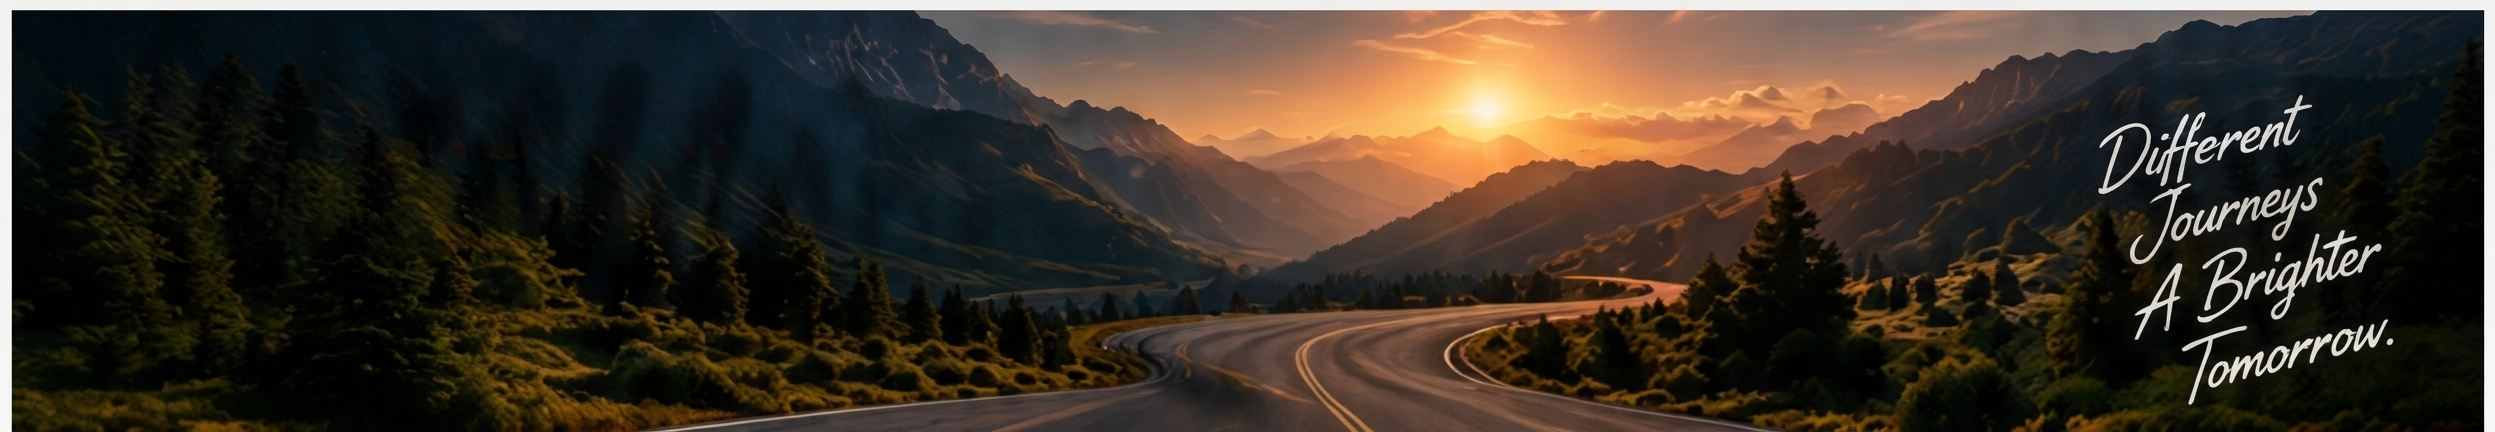
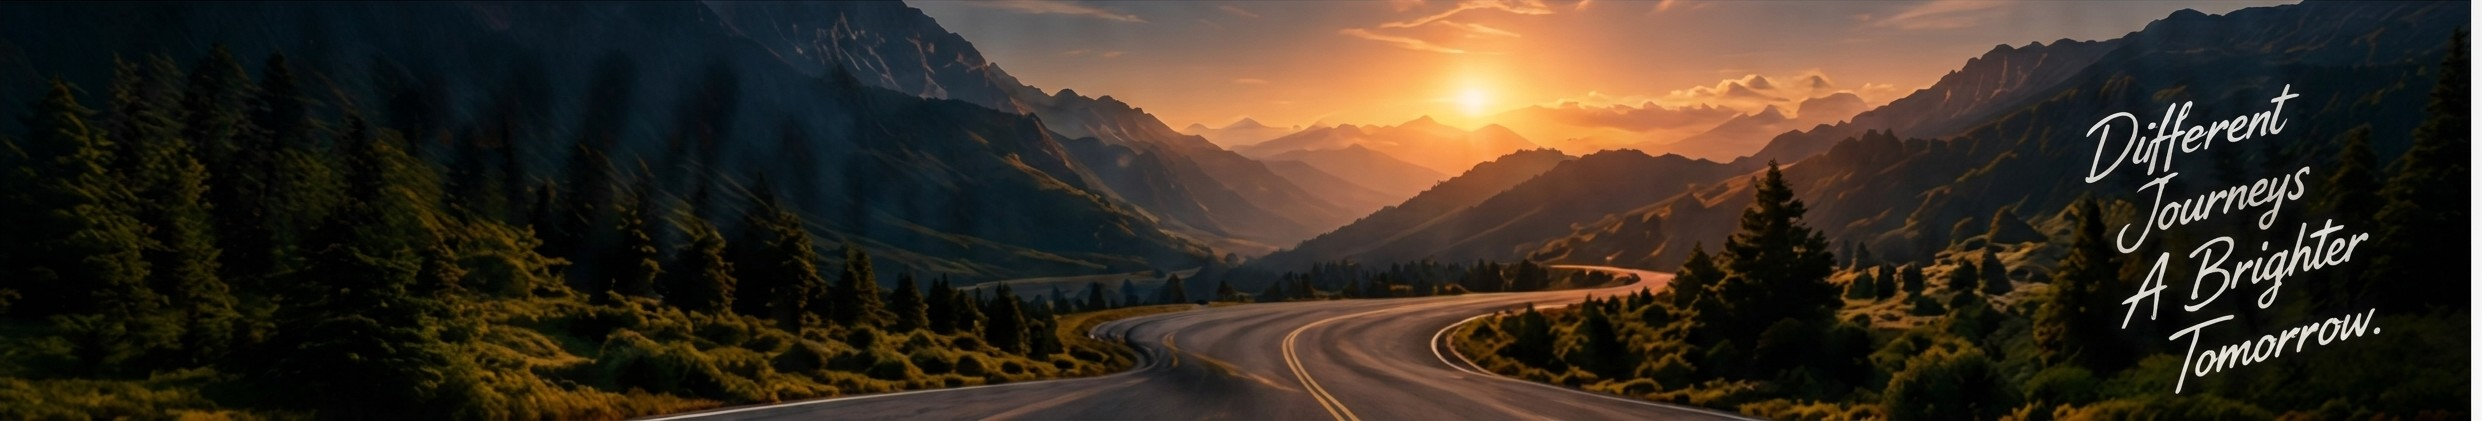
footer is done

diff --git a/src/components/Footer.jsx b/src/components/Footer.jsx
@@ -1,4 +1,3 @@
-
 import React from 'react'
 import {
     FaLinkedinIn,
@@ -33,19 +32,18 @@ const supportLinks = [
 
 const Footer = () => {
     return (
-        <footer className="bg-[#0B0F12] py-12">
-            <div className="mx-auto w-[90%]">
-
-                <div className="grid grid-cols-1 gap-8 pb-10 text-center md:grid-cols-2 md:justify-items-center lg:grid-cols-5 lg:justify-items-start lg:text-left">
-
+        <footer className="bg-[#0B0F12]  py-12 ">
+            <div className='w-[90%] mx-auto text-center md:text-left'>
+                <div className=" grid grid-cols-1 gap-8 pb-10 md:grid-cols-2 lg:grid-cols-5 ">
 
                     <div>
-                        <div className="flex items-center justify-center lg:justify-start">
-                            <img
-                                src="/assets/rypp-logo2.png"
-                                alt="RYPP"
-                                className="h-10 w-auto object-contain"
-                            />
+                        <div className="flex items-center gap-2">
+                            <span className="text-xl font-extrabold text-[#FD1022]">
+                                RYPP
+                            </span>
+                            <span className="text-xs text-gray-400">
+                                Ride Your Way
+                            </span>
                         </div>
 
                         <p className="mt-4 text-xs font-medium text-gray-400">
@@ -56,7 +54,7 @@ const Footer = () => {
                             Bike • Car • Rentals
                         </p>
 
-                        <div className="mt-5 flex justify-center gap-2 lg:justify-start">
+                        <div className="mt-5 flex gap-2">
                             <button className="flex h-8 w-8 items-center justify-center rounded-full bg-gray-800/80 text-gray-300 transition hover:bg-[#FD1022] hover:text-white">
                                 <FaLinkedinIn size={14} />
                             </button>
@@ -89,13 +87,14 @@ const Footer = () => {
                             {quickLinks.map((link) => (
                                 <p
                                     key={link}
-                                    className="text-xs text-gray-400 transition hover:text-white"
+                                    className="text-xs text-gray-400 hover:text-white"
                                 >
                                     {link}
                                 </p>
                             ))}
                         </div>
                     </div>
+
 
                     <div>
                         <h3 className="mb-3 text-xs font-bold uppercase tracking-wider text-white">
@@ -106,7 +105,7 @@ const Footer = () => {
                             {supportLinks.map((link) => (
                                 <p
                                     key={link}
-                                    className="text-xs text-gray-400 transition hover:text-white"
+                                    className="text-xs text-gray-400 hover:text-white"
                                 >
                                     {link}
                                 </p>
@@ -121,25 +120,24 @@ const Footer = () => {
                         </h3>
 
                         <div className="space-y-3 text-xs text-gray-300">
-                            <div className="flex items-center justify-center gap-2 lg:justify-start">
+                            <div className="flex items-center gap-2">
                                 <Phone size={14} />
                                 <span>+91 98765 43210</span>
                             </div>
 
-                            <div className="flex items-center justify-center gap-2 lg:justify-start">
+                            <div className="flex items-center gap-2">
                                 <Mail size={14} />
                                 <span>hello@rypp.in</span>
                             </div>
 
-                            <div className="flex items-center justify-center gap-2 lg:justify-start">
+                            <div className="flex items-center gap-2">
                                 <MapPin size={14} />
                                 <span>Bengaluru, India</span>
                             </div>
                         </div>
                     </div>
 
-
-                    <div className="w-full max-w-xs">
+                    <div>
                         <h3 className="text-xs font-bold uppercase tracking-wider text-white">
                             Subscribe to our newsletter
                         </h3>
@@ -162,20 +160,16 @@ const Footer = () => {
                     </div>
                 </div>
 
-
                 <div className="flex flex-col items-center justify-between gap-3 border-t border-gray-800/80 pt-6 text-[11px] text-gray-500 md:flex-row">
-                    <p>
-                        © 2026 RYPP. All Rights Reserved.
-                    </p>
+                    <p>© 2026 RYPP. All Rights Reserved.</p>
 
-                    <p>
-                        Ride Your Way. Explore More.
-                    </p>
+                    <p>Ride Your Way. Explore More.</p>
                 </div>
             </div>
+
+
         </footer>
     )
 }
 
 export default Footer
-

diff --git a/src/app/page.js b/src/app/page.js
@@ -1,6 +1,7 @@
 import ChooseYourRide from "@/components/ChooseYourRide";
 import CTA from "@/components/CTA";
 import ExploreBehicle from "@/components/ExploreBehicle";
+import Footer from "@/components/Footer";
 import Hero from "@/components/Hero";
 import HowItWorks from "@/components/HowItWorks";
 import Metrics from "@/components/Metrics";
@@ -25,6 +26,7 @@ export default function Home() {
       <Testimonial />
       <Metrics />
       <CTA />
+      <Footer />
     </main>
   );
 }
